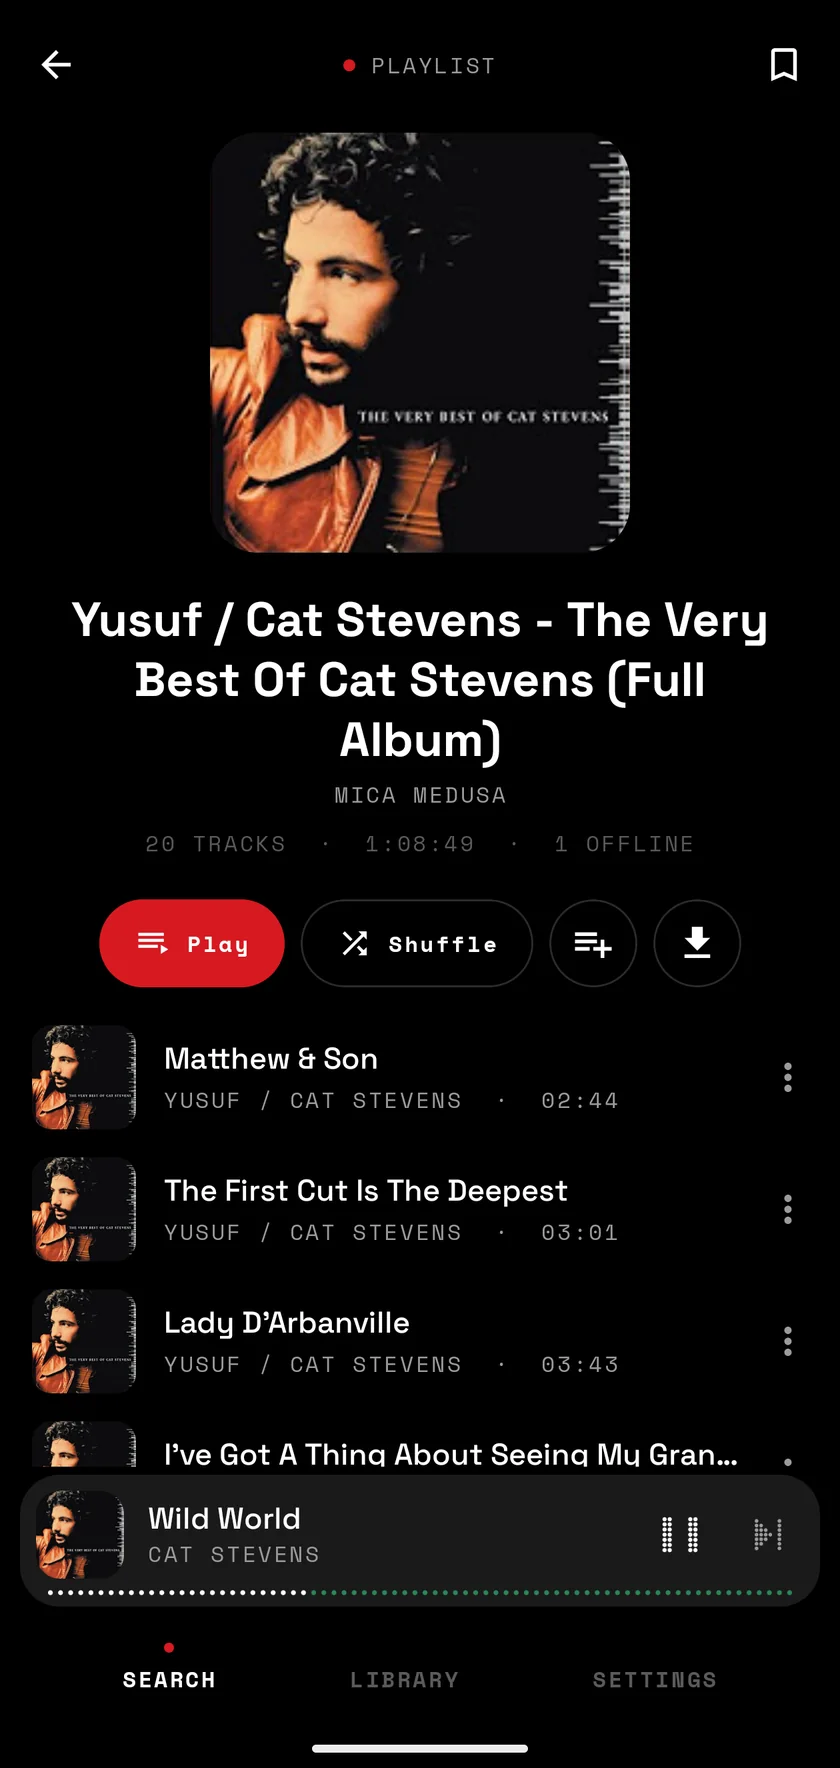
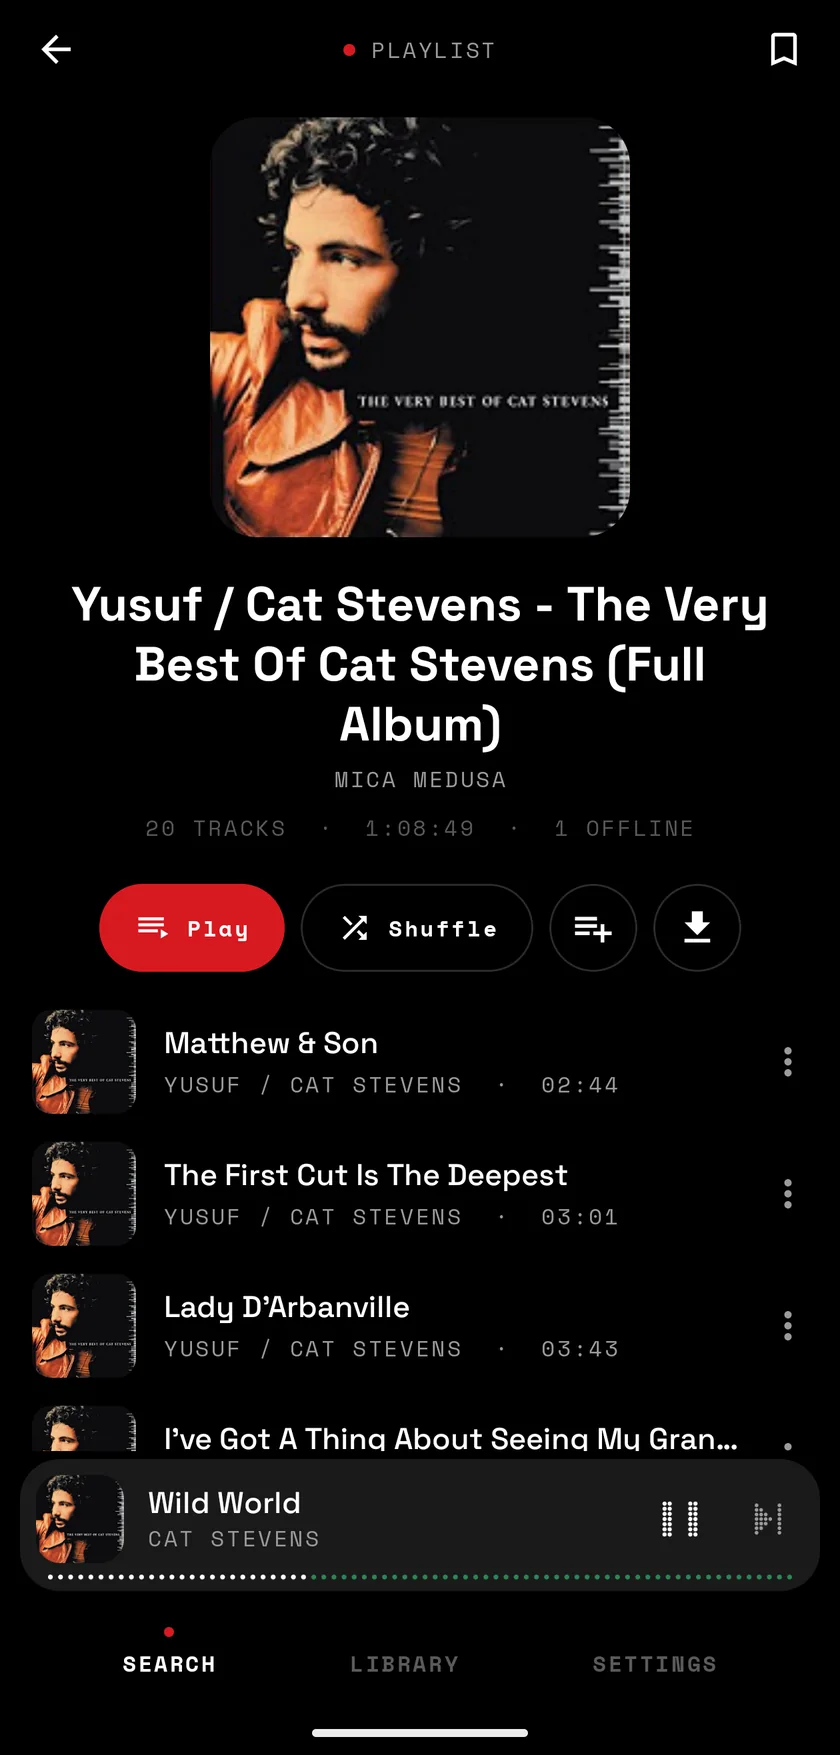
Paper-theme screenshots: they fade in with the site's paper theme
Every screenshot is now cut to the same height from the bottom, so each dark / paper
pair lines up pixel for pixel. The site cross-fades them when the theme switches, and
the README shows the paper ones to GitHub's light-mode readers. README-only pushes don't
build an APK either.

Claude-Session: https://claude.ai/code/session_01NRxy651cNxPJngPLuvp2jm

diff --git a/docs/index.html b/docs/index.html
@@ -268,7 +268,7 @@ section { padding-block: clamp(56px, 9vw, 120px); border-top: 1px solid var(--li
 figure { margin: 0; }
 .phone {
   position: relative;
-  aspect-ratio: 840 / 1768;
+  aspect-ratio: 840 / 1755;
   border-radius: 30px;
   background: var(--device);
   border: 1px solid var(--line);
@@ -276,7 +276,9 @@ figure { margin: 0; }
   overflow: hidden;
   transition: transform .35s cubic-bezier(.2, .8, .2, 1), box-shadow .35s;
 }
-.phone img { width: 100%; height: 100%; object-fit: cover; display: block; }
+.phone img { position: absolute; inset: 0; width: 100%; height: 100%; object-fit: cover; display: block; transition: opacity .6s ease; }
+/* the same screen in the paper theme, lined up pixel for pixel: it fades in over the dark one */
+.phone img.paper { opacity: 0; }
 .shot:hover .phone { transform: translateY(-6px); box-shadow: 0 0 0 5px var(--surface), 0 0 0 6px var(--dim), 0 38px 70px var(--shadow); }
 /* the eighth cell: the download, shaped like a phone */
 .tile {
@@ -402,6 +404,10 @@ footer a { color: var(--dim); }
   .btn-dl small { display: none; }
   .hero h1 .pip { right: -0.2em; }
 }
+@media (prefers-color-scheme: light) {
+  :root:not([data-theme="dark"]) .phone img.paper { opacity: 1; }
+}
+:root[data-theme="light"] .phone img.paper { opacity: 1; }
 @media (prefers-reduced-motion: reduce) {
   *, *::before, *::after { animation: none !important; transition: none !important; }
 }
@@ -478,7 +484,7 @@ img { max-width: 100%; }
             <span class="stamp" aria-hidden="true">YTUNE · NOW PLAYING</span>
           </div>
           <div class="phone front">
-            <img src="screenshots/player.webp" width="840" height="1768" alt="Écran de lecture de YTune : Wild World de Cat Stevens, pochette en photo, barre de lecture à points, bouton pause.">
+            <img src="screenshots/player.webp" width="840" height="1755" alt="Écran de lecture de YTune : Wild World de Cat Stevens, pochette en photo, barre de lecture à points, bouton pause.">
           </div>
         </div>
         <p class="label">Au dos, la Glyph Matrix des Nothing Phone (3) et (4a) Pro<br>fait défiler le titre. Touchez-la.</p>
@@ -496,31 +502,31 @@ img { max-width: 100%; }
 
       <div class="shots">
         <figure class="shot">
-          <div class="phone"><img src="screenshots/search.webp" width="840" height="1768" loading="lazy" alt="Recherche « cat stevens » dans l'onglet Songs, avec les boutons Play all et Queue all."></div>
+          <div class="phone"><img src="screenshots/search.webp" width="840" height="1755" loading="lazy" alt="Recherche « cat stevens » dans l'onglet Songs, avec les boutons Play all et Queue all."><img class="paper" src="screenshots/search-paper.webp" width="840" height="1755" loading="lazy" alt="" aria-hidden="true"></div>
           <figcaption><span class="label">Recherche</span><p>Morceaux, vidéos, playlists, albums. Tout lire ou tout mettre en file d'un geste.</p></figcaption>
         </figure>
         <figure class="shot">
-          <div class="phone"><img src="screenshots/playback-mode.webp" width="840" height="1768" loading="lazy" alt="Panneau Playback mode : STREAM ou STREAM + DL, stratégie Progressive ou All at once."></div>
+          <div class="phone"><img src="screenshots/playback-mode.webp" width="840" height="1755" loading="lazy" alt="Panneau Playback mode : STREAM ou STREAM + DL, stratégie Progressive ou All at once."><img class="paper" src="screenshots/playback-mode-paper.webp" width="840" height="1755" loading="lazy" alt="" aria-hidden="true"></div>
           <figcaption><span class="label">Stream ou Stream + DL</span><p>Streaming seul, ou enregistrement au fil de l'écoute ou d'un coup.</p></figcaption>
         </figure>
         <figure class="shot">
-          <div class="phone"><img src="screenshots/song-menu.webp" width="840" height="1768" loading="lazy" alt="Menu d'un morceau dans la file : Play now, Add next in queue, Add to queue, Add to playlist, Go to album."></div>
+          <div class="phone"><img src="screenshots/song-menu.webp" width="840" height="1755" loading="lazy" alt="Menu d'un morceau dans la file : Play now, Add next in queue, Add to queue, Add to playlist, Go to album."><img class="paper" src="screenshots/song-menu-paper.webp" width="840" height="1755" loading="lazy" alt="" aria-hidden="true"></div>
           <figcaption><span class="label">Le menu ⋯</span><p>Lire maintenant, ajouter juste après, dans une playlist, aller à l'album.</p></figcaption>
         </figure>
         <figure class="shot">
-          <div class="phone"><img src="screenshots/playlist.webp" width="840" height="1768" loading="lazy" alt="Playlist The Very Best Of Cat Stevens : 20 titres, boutons Play et Shuffle, mini-lecteur en bas."></div>
+          <div class="phone"><img src="screenshots/playlist.webp" width="840" height="1755" loading="lazy" alt="Playlist The Very Best Of Cat Stevens : 20 titres, boutons Play et Shuffle, mini-lecteur en bas."><img class="paper" src="screenshots/playlist-paper.webp" width="840" height="1755" loading="lazy" alt="" aria-hidden="true"></div>
           <figcaption><span class="label">Playlists et albums</span><p>Une playlist YouTube s'ouvre comme un album : lecture, aléatoire, file, téléchargement.</p></figcaption>
         </figure>
         <figure class="shot">
-          <div class="phone"><img src="screenshots/library.webp" width="840" height="1768" loading="lazy" alt="Bibliothèque : deux morceaux enregistrés avec leur point vert, onglets Songs, Playlists et Queue."></div>
+          <div class="phone"><img src="screenshots/library.webp" width="840" height="1755" loading="lazy" alt="Bibliothèque : deux morceaux enregistrés avec leur point vert, onglets Songs, Playlists et Queue."><img class="paper" src="screenshots/library-paper.webp" width="840" height="1755" loading="lazy" alt="" aria-hidden="true"></div>
           <figcaption><span class="label">Bibliothèque</span><p>Les morceaux enregistrés portent un point vert et marchent sans réseau.</p></figcaption>
         </figure>
         <figure class="shot">
-          <div class="phone"><img src="screenshots/glyph-matrix.webp" width="840" height="1768" loading="lazy" alt="Réglages : Wi-Fi only, téléchargements parallèles, cache, et aperçu de la Glyph Matrix."></div>
+          <div class="phone"><img src="screenshots/glyph-matrix.webp" width="840" height="1755" loading="lazy" alt="Réglages : Wi-Fi only, téléchargements parallèles, cache, et aperçu de la Glyph Matrix."><img class="paper" src="screenshots/glyph-matrix-paper.webp" width="840" height="1755" loading="lazy" alt="" aria-hidden="true"></div>
           <figcaption><span class="label">Glyph Matrix</span><p>Aperçu en direct de ce qu'affiche le dos du téléphone.</p></figcaption>
         </figure>
         <figure class="shot">
-          <div class="phone"><img src="screenshots/settings-updates.webp" width="840" height="1768" loading="lazy" alt="Réglages : test de la matrice, YTune v1.4.5 à jour, commandes des écouteurs Nothing Ear."></div>
+          <div class="phone"><img src="screenshots/settings-updates.webp" width="840" height="1755" loading="lazy" alt="Réglages : test de la matrice, YTune v1.4.5 à jour, commandes des écouteurs Nothing Ear."></div>
           <figcaption><span class="label">Mises à jour</span><p>YTune suit les versions publiées et se met à jour lui-même.</p></figcaption>
         </figure>
         <figure class="shot">

diff --git a/README.md b/README.md
@@ -8,9 +8,9 @@
 <table align="center">
   <tr>
     <td align="center"><img src="docs/screenshots/player.webp" width="200" alt="Now playing: Wild World by Cat Stevens, photo cover, dot-matrix seek bar"></td>
-    <td align="center"><img src="docs/screenshots/search.webp" width="200" alt="Search results for cat stevens, with Play all and Queue all"></td>
-    <td align="center"><img src="docs/screenshots/playlist.webp" width="200" alt="A YouTube playlist opened like an album, with Play, Shuffle, queue and download"></td>
-    <td align="center"><img src="docs/screenshots/library.webp" width="200" alt="Library: saved songs with their green offline dot"></td>
+    <td align="center"><picture><source media="(prefers-color-scheme: light)" srcset="docs/screenshots/search-paper.webp"><img src="docs/screenshots/search.webp" width="200" alt="Search results for cat stevens, with Play all and Queue all"></picture></td>
+    <td align="center"><picture><source media="(prefers-color-scheme: light)" srcset="docs/screenshots/playlist-paper.webp"><img src="docs/screenshots/playlist.webp" width="200" alt="A YouTube playlist opened like an album, with Play, Shuffle, queue and download"></picture></td>
+    <td align="center"><picture><source media="(prefers-color-scheme: light)" srcset="docs/screenshots/library-paper.webp"><img src="docs/screenshots/library.webp" width="200" alt="Library: saved songs with their green offline dot"></picture></td>
   </tr>
   <tr>
     <td align="center"><sub>Player</sub></td>
@@ -43,14 +43,14 @@
   - List rows get a matching ring, or a green dot when the track is saved.
 - **Reorder the queue by dragging:** grab the six-dot handle on the left of a song in the queue and move it up or down. The row lifts, the others slide out of the way, the list scrolls when you reach an edge, and each step ticks. Long-press the rest of the row to select instead.
 - **Player:** queue, shuffle, repeat, seek, a dot-matrix seek bar and "halftone" dot artwork. Tap the cover to cycle **dots → photo → lyrics**.
-- **Dark or paper:** black like Nothing OS, or warm paper with black ink instead of plain white. Pick it in *Settings → Appearance* (`SYSTEM / DARK / PAPER`); *System* follows the phone's dark mode. The status bar icons follow the choice.
+- **Dark or paper:** black like Nothing OS, or warm paper with black ink instead of plain white (the screenshots here follow your GitHub theme). Pick it in *Settings → Appearance* (`SYSTEM / DARK / PAPER`); *System* follows the phone's dark mode. The status bar icons follow the choice.
 - **Lyrics:** Spotify-style synced lyrics where the cover was. They scroll on their own, the line being sung fills in karaoke-style (word by word when the lyrics have word timing), sung lines stay lit and upcoming ones are dimmed. Scroll by hand to look around; it catches up again after a few seconds. Long-press a line to jump there. Lyrics come from [LRCLIB](https://lrclib.net), a free, open lyrics database. YouTube titles are cleaned up first ("Artist - Title (Official Video)" → artist + title), and synced lyrics are only used when their length matches the song, otherwise the plain text is shown ("NOT SYNCED"). Lyrics are cached, and songs you save fetch theirs in the background, so they work offline too.
 - **Headset and Nothing Ear controls:** playback runs in a Media3 `MediaSession`, so it works from Bluetooth media keys (play/pause, next, previous), the lock screen and the notification. It pauses when the earbuds disconnect or come out, and pressing play with the app closed resumes your last queue.
 
 <table align="center">
   <tr>
-    <td align="center"><img src="docs/screenshots/playback-mode.webp" width="240" alt="Playback mode sheet: STREAM or STREAM + DL, Progressive or All at once"></td>
-    <td align="center"><img src="docs/screenshots/song-menu.webp" width="240" alt="Song menu: Play now, Add next in queue, Add to queue, Add to playlist, Go to album, Delete download"></td>
+    <td align="center"><picture><source media="(prefers-color-scheme: light)" srcset="docs/screenshots/playback-mode-paper.webp"><img src="docs/screenshots/playback-mode.webp" width="240" alt="Playback mode sheet: STREAM or STREAM + DL, Progressive or All at once"></picture></td>
+    <td align="center"><picture><source media="(prefers-color-scheme: light)" srcset="docs/screenshots/song-menu-paper.webp"><img src="docs/screenshots/song-menu.webp" width="240" alt="Song menu: Play now, Add next in queue, Add to queue, Add to playlist, Go to album, Delete download"></picture></td>
   </tr>
   <tr>
     <td align="center"><sub>Stream, or stream + download</sub></td>
@@ -69,7 +69,7 @@
 
 <table align="center">
   <tr>
-    <td align="center"><img src="docs/screenshots/glyph-matrix.webp" width="240" alt="Settings: live preview of the Glyph Matrix and its switches"></td>
+    <td align="center"><picture><source media="(prefers-color-scheme: light)" srcset="docs/screenshots/glyph-matrix-paper.webp"><img src="docs/screenshots/glyph-matrix.webp" width="240" alt="Settings: live preview of the Glyph Matrix and its switches"></picture></td>
     <td align="center"><img src="docs/screenshots/settings-updates.webp" width="240" alt="Settings: matrix test and status lines, YTune up to date, auto-download updates"></td>
   </tr>
   <tr>
